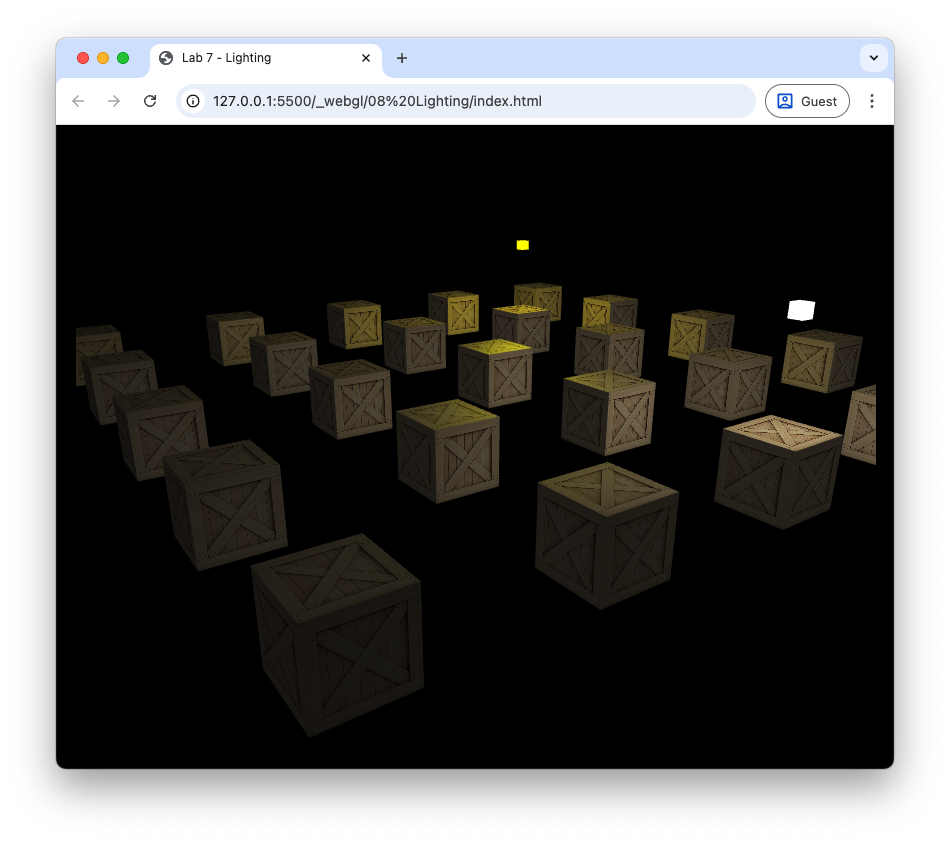
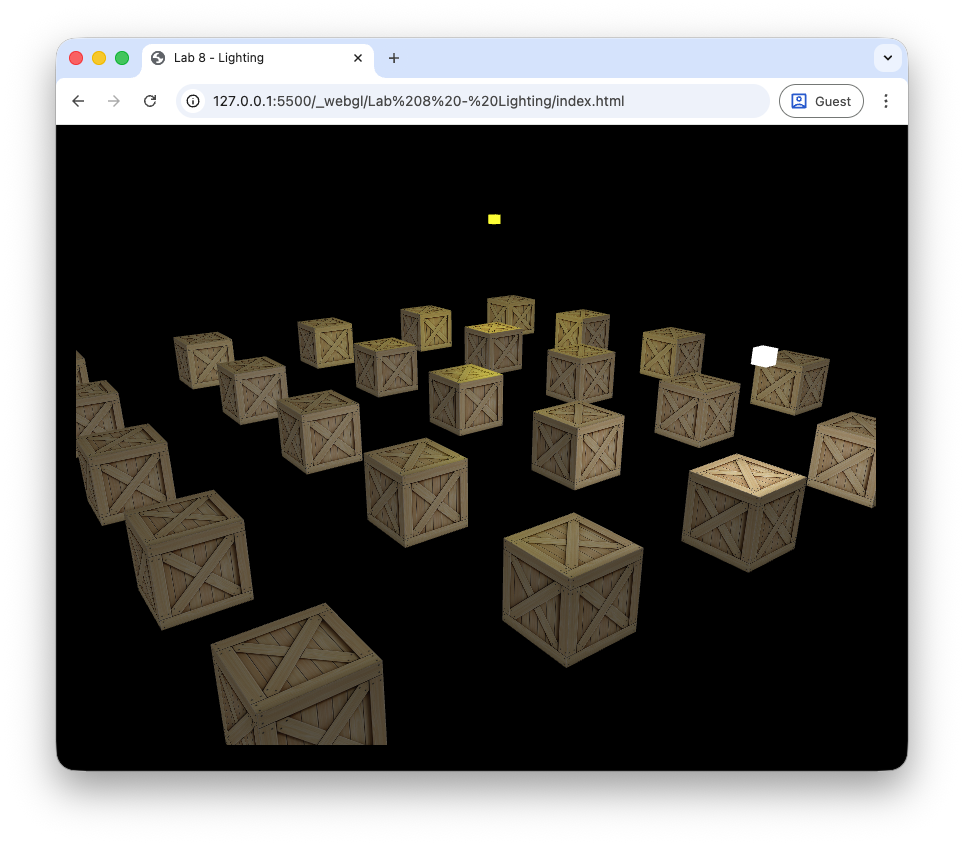
Update documentation

diff --git a/_pages/08_Lighting.html b/_pages/08_Lighting.html
@@ -774,7 +774,8 @@ document.write(`
 <span class="w">    </span><span class="k">this</span><span class="p">.</span><span class="nx">colour</span><span class="w"> </span><span class="o">=</span><span class="w"> </span><span class="p">[</span><span class="mf">1</span><span class="p">,</span><span class="w"> </span><span class="mf">1</span><span class="p">,</span><span class="w"> </span><span class="mf">1</span><span class="p">];</span>
 <span class="w">  </span><span class="p">}</span>
 
-<span class="w">    </span><span class="nx">toShader</span><span class="p">(</span><span class="nx">gl</span><span class="p">,</span><span class="w"> </span><span class="nx">program</span><span class="p">)</span><span class="w"> </span><span class="p">{</span>
+<span class="w">  </span><span class="nx">toShader</span><span class="p">(</span><span class="nx">gl</span><span class="p">,</span><span class="w"> </span><span class="nx">program</span><span class="p">)</span><span class="w"> </span><span class="p">{</span>
+
 <span class="w">    </span><span class="c1">// Light vectors</span>
 <span class="w">    </span><span class="nx">gl</span><span class="p">.</span><span class="nx">uniform3fv</span><span class="p">(</span><span class="nx">gl</span><span class="p">.</span><span class="nx">getUniformLocation</span><span class="p">(</span><span class="nx">program</span><span class="p">,</span><span class="w"> </span><span class="s2">&quot;uLightPosition&quot;</span><span class="p">),</span><span class="w"> </span><span class="k">this</span><span class="p">.</span><span class="nx">position</span><span class="p">);</span>
 <span class="w">    </span><span class="nx">gl</span><span class="p">.</span><span class="nx">uniform3fv</span><span class="p">(</span><span class="nx">gl</span><span class="p">.</span><span class="nx">getUniformLocation</span><span class="p">(</span><span class="nx">program</span><span class="p">,</span><span class="w"> </span><span class="s2">&quot;uLightColour&quot;</span><span class="p">),</span><span class="w"> </span><span class="k">this</span><span class="p">.</span><span class="nx">colour</span><span class="p">);</span>
@@ -1144,7 +1145,7 @@ document.write(`
 <span class="w">  </span><span class="kt">vec3</span><span class="w"> </span><span class="n">specular</span><span class="w"> </span><span class="o">=</span><span class="w"> </span><span class="n">uKs</span><span class="w"> </span><span class="o">*</span><span class="w"> </span><span class="n">spec</span><span class="w"> </span><span class="o">*</span><span class="w"> </span><span class="n">light</span><span class="p">.</span><span class="n">colour</span><span class="p">;</span>
 
 <span class="w">  </span><span class="c1">// Output fragment colour</span>
-<span class="w">  </span><span class="k">return</span><span class="w"> </span><span class="n">attenuation</span><span class="w"> </span><span class="o">*</span><span class="w"> </span><span class="p">(</span><span class="n">ambient</span><span class="w"> </span><span class="o">+</span><span class="w"> </span><span class="n">diffuse</span><span class="w"> </span><span class="o">+</span><span class="w"> </span><span class="n">specular</span><span class="p">);</span>
+<span class="w">  </span><span class="k">return</span><span class="w"> </span><span class="n">ambient</span><span class="w"> </span><span class="o">+</span><span class="w"> </span><span class="n">attenuation</span><span class="w"> </span><span class="o">*</span><span class="w"> </span><span class="p">(</span><span class="n">diffuse</span><span class="w"> </span><span class="o">+</span><span class="w"> </span><span class="n">specular</span><span class="p">);</span>
 <span class="p">}</span>
 
 <span class="c1">// Main fragment shader function</span>

diff --git a/_sources/_pages/08_Lighting.md b/_sources/_pages/08_Lighting.md
@@ -415,7 +415,8 @@ class Light {
     this.colour = [1, 1, 1];
   }
 
-    toShader(gl, program) {
+  toShader(gl, program) {
+
     // Light vectors
     gl.uniform3fv(gl.getUniformLocation(program, "uLightPosition"), this.position);
     gl.uniform3fv(gl.getUniformLocation(program, "uLightColour"), this.colour);
@@ -859,7 +860,7 @@ vec3 computeLighting(Light light, vec3 N, vec3 V, vec3 objectColour){
   vec3 specular = uKs * spec * light.colour;
 
   // Output fragment colour
-  return attenuation * (ambient + diffuse + specular);
+  return ambient + attenuation * (diffuse + specular);
 }
 
 // Main fragment shader function
